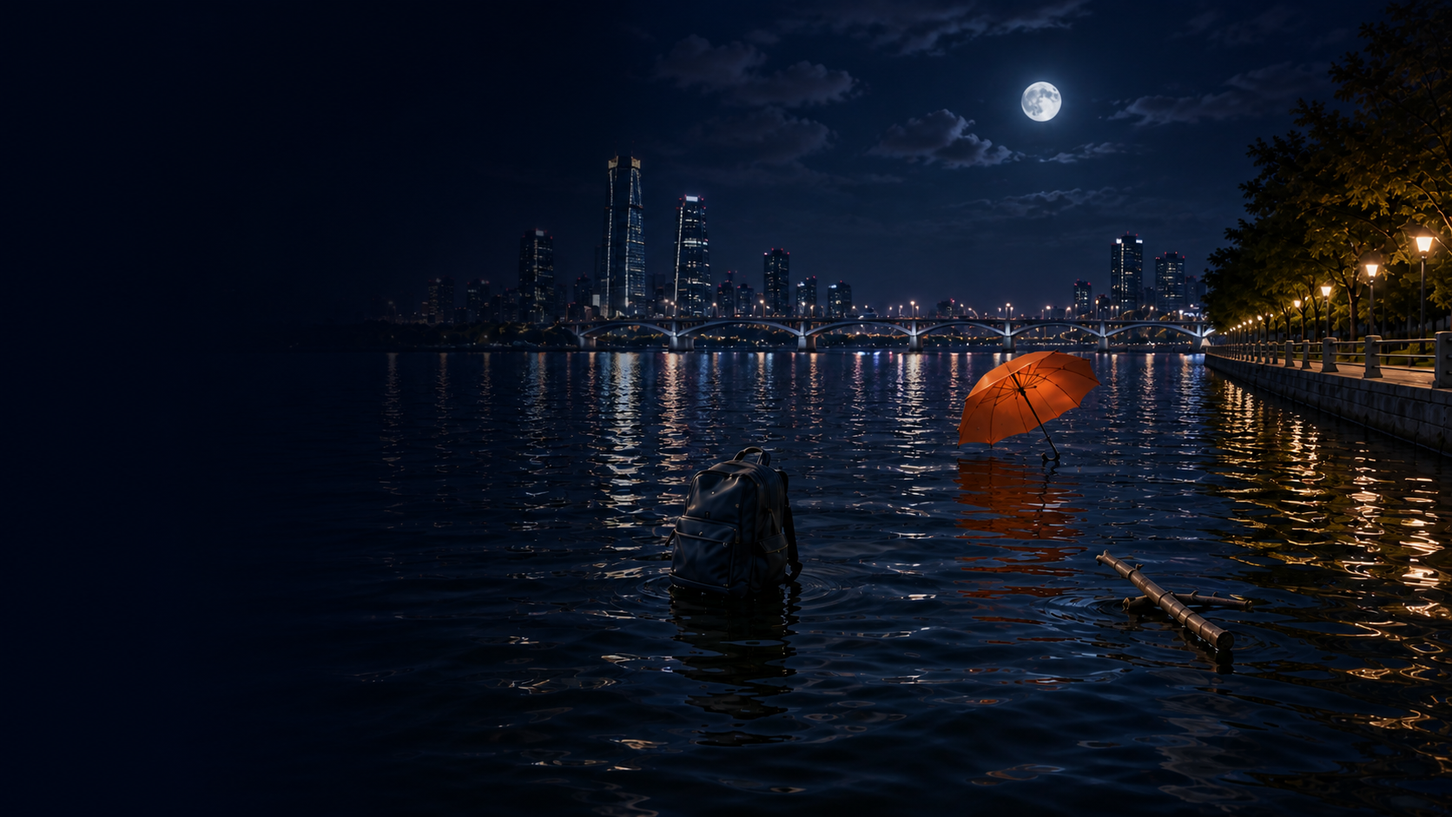
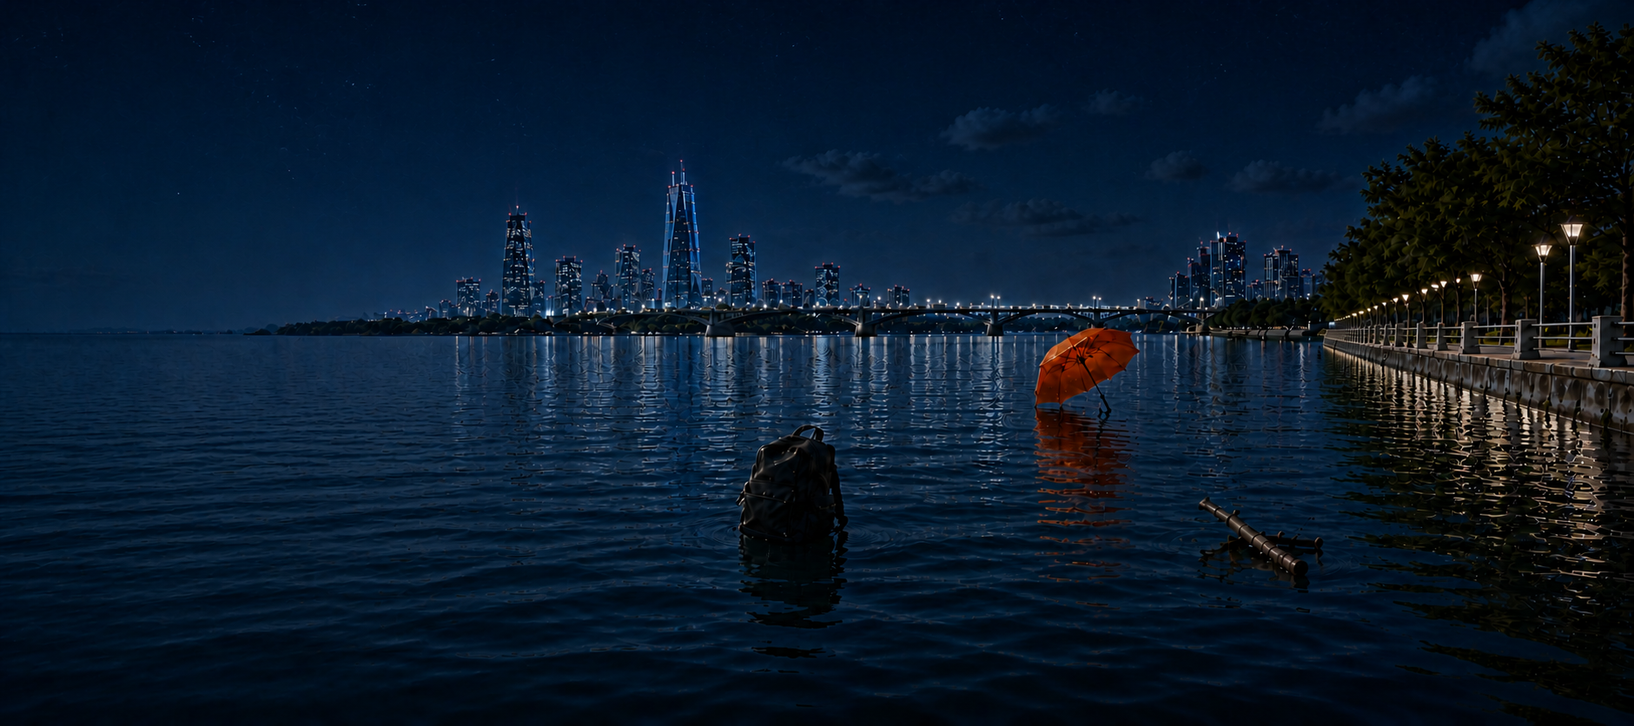
fix(frontend): 테마별 히어로 비주얼과 인증 UX 정리

diff --git a/frontend/src/app/globals.css b/frontend/src/app/globals.css
@@ -165,13 +165,13 @@ html[data-theme="dawn"] .button-secondary:hover { border-color: rgba(232, 111, 8
 .hero-copy::before { content: ""; position: absolute; z-index: -2; left: -12px; bottom: 14px; width: 103%; height: 132px; background: radial-gradient(ellipse at 42% 62%, rgba(105, 184, 255, .22) 0 18%, rgba(148, 209, 255, .14) 32%, transparent 70%), linear-gradient(180deg, transparent 0 36%, rgba(190, 226, 255, .15) 47%, rgba(122, 194, 255, .20) 74%, transparent 100%); -webkit-mask-image: linear-gradient(180deg, transparent 0, #000 26%, #000 78%, transparent 100%); mask-image: linear-gradient(180deg, transparent 0, #000 26%, #000 78%, transparent 100%); pointer-events: none; }
 .hero-copy::after { content: ""; position: absolute; z-index: -1; left: -8px; bottom: 28px; width: 98%; aspect-ratio: 2.86 / 1; background-image: url("/riverside-line-art-transparent.png"), url("/riverside-line-art-transparent.png"), url("/riverside-line-art-transparent.png"), url("/riverside-line-art-transparent.png"); background-position: center, center, center, center; background-size: contain, contain, contain, contain; background-repeat: no-repeat, no-repeat, no-repeat, no-repeat; opacity: 1; filter: contrast(1.95) saturate(1.3) brightness(.9) drop-shadow(0 0 0 rgba(78, 128, 210, .42)); pointer-events: none; }
 html[data-theme="day"] .hero-copy::before { bottom: -24px; }
-html[data-theme="day"] .hero-copy::after { bottom: -28px; }
+html[data-theme="day"] .hero-copy::after { bottom: -52px; }
 html[data-theme="night"] .hero-copy::before { opacity: .18; background: radial-gradient(ellipse at 42% 62%, rgba(139, 124, 255, .32) 0 20%, rgba(95, 141, 255, .13) 34%, transparent 72%); }
 html[data-theme="night"] .hero-copy { width: 31%; min-width: 390px; padding-top: 76px; padding-left: 28px; }
-html[data-theme="night"] .hero-copy::before { bottom: -8px; opacity: 0; }
-html[data-theme="night"] .hero-copy::after { bottom: 0; mix-blend-mode: screen; opacity: 0; filter: hue-rotate(32deg) saturate(.7); }
-html[data-theme="dawn"] .hero-copy::before { background: radial-gradient(ellipse at 42% 62%, rgba(255, 159, 118, .24) 0 18%, rgba(155, 151, 213, .14) 34%, transparent 72%); }
-html[data-theme="dawn"] .hero-copy::after { filter: hue-rotate(298deg) saturate(.72) brightness(1.06); opacity: .38; }
+html[data-theme="night"] .hero-copy::before { bottom: -72px; height: 150px; opacity: .56; background: radial-gradient(ellipse at 46% 72%, rgba(139,124,255,.22) 0 24%, rgba(95,141,255,.13) 38%, transparent 74%); }
+html[data-theme="night"] .hero-copy::after { bottom: -76px; mix-blend-mode: screen; opacity: .62; filter: invert(1) hue-rotate(190deg) saturate(1.45) brightness(1.22) drop-shadow(0 0 7px rgba(185,204,255,.34)) drop-shadow(0 0 16px rgba(139,124,255,.28)); }
+html[data-theme="dawn"] .hero-copy::before { bottom: -50px; height: 150px; opacity: .72; background: radial-gradient(ellipse at 34% 30%, rgba(255, 132, 92, .07) 0 20%, rgba(255, 188, 159, .04) 36%, transparent 68%), linear-gradient(180deg, transparent 0 16%, rgba(255, 232, 218, .08) 30%, rgba(168, 226, 226, .24) 58%, rgba(117, 205, 219, .18) 78%, transparent 100%); }
+html[data-theme="dawn"] .hero-copy::after { bottom: -50px; filter: sepia(.62) hue-rotate(323deg) saturate(2.3) contrast(1.42) brightness(.95) drop-shadow(0 0 3px rgba(232,111,81,.28)); opacity: .94; }
 .eyebrow { margin: 0 0 24px; display: flex; align-items: center; gap: 8px; color: var(--color-primary); font-size: 13px; font-weight: 700; }
 .hero h1 { min-height: 130px; margin: 0; max-width: 440px; font-family: var(--font-editorial), "Noto Serif", Batang, serif; font-size: clamp(40px, 3.25vw, 48px); line-height: 1.34; letter-spacing: -.035em; font-weight: 500; }
 html[data-theme="night"] .hero h1 { max-width: 390px; font-size: clamp(35px, 2.75vw, 42px); line-height: 1.34; }
@@ -199,7 +199,7 @@ html[data-theme="night"] .hero-actions .button-secondary { min-width: 150px; bor
 .riverside-line-art .line-bridge { stroke-width: 1.4; opacity: .96; }.riverside-line-art .line-city { opacity: .9; }.riverside-line-art .line-currents { opacity: .66; }.riverside-line-art .line-banks, .riverside-line-art .line-ripples { opacity: .72; }
 
 .detection-scene { position: absolute; inset: 0; min-width: 0; height: 680px; overflow: hidden; border-radius: 0 0 30px 30px; background-color: var(--scene-water); background-image: url("/flowlink-river-day.png"); background-position: center; background-repeat: no-repeat; background-size: 100% 100%; isolation: isolate; }
-html[data-theme="night"] .detection-scene { background-image: url("/flowlink-river-night.png"); }
+html[data-theme="night"] .detection-scene { background-image: url("/flowlink-river-night.png"); background-position: center; background-size: 100% 100%; }
 html[data-theme="dawn"] .detection-scene { background-image: url("/flowlink-river-dawn.png"); }
 .detection-scene::before { content: ""; position: absolute; z-index: 6; inset: 0 auto 0 0; width: 37%; background: linear-gradient(90deg, var(--color-background) 0 55%, color-mix(in srgb, var(--color-background) 88%, transparent) 72%, color-mix(in srgb, var(--color-background) 34%, transparent) 90%, transparent 100%); pointer-events: none; }
 html[data-theme="night"] .detection-scene::before { width: 42%; background: linear-gradient(90deg, #090d1a 0 54%, rgba(9,13,26,.88) 68%, rgba(9,13,26,.24) 91%, transparent); }
@@ -213,7 +213,11 @@ html[data-theme="night"] .scene-sky { background: radial-gradient(circle at 73% 
 .cloud-one { top: 58px; left: 14%; }.cloud-two { top: 105px; right: 12%; transform: scale(.72); }
 html[data-theme="night"] .cloud { opacity: .05; }
 .moon { display: none; position: absolute; z-index: 2; top: 38px; right: 19%; width: 54px; height: 54px; border-radius: 50%; background: #dbe5ff; box-shadow: 0 0 28px rgba(185,204,255,.22); }
-html[data-theme="night"] .moon { display: block; }
+html[data-theme="night"] .scene-sky { display: block; z-index: 7; overflow: visible; background: transparent; pointer-events: none; }
+html[data-theme="night"] .scene-sky .cloud { display: none; }
+html[data-theme="night"] .moon { display: block; top: 66px; right: 28%; width: 56px; height: 56px; overflow: visible; border: 0; background: url("/flowlink-moon-realistic.png") center / contain no-repeat; box-shadow: none; filter: drop-shadow(0 0 10px rgba(231,244,255,.32)) drop-shadow(0 0 32px rgba(117,169,255,.2)); opacity: .9; }
+html[data-theme="night"] .moon::before { display: none; }
+html[data-theme="night"] .moon::after { content: ""; position: absolute; z-index: -1; inset: -18px; border-radius: 50%; background: radial-gradient(circle, rgba(216,235,255,.18) 0 22%, rgba(104,162,255,.09) 42%, transparent 72%); filter: blur(2px); pointer-events: none; }
 .scene-city { position: absolute; z-index: 2; top: 126px; left: 0; width: 100%; height: 190px; }
 .city-back { fill: #b7d4e4; opacity: .56; }
 .city-shape { fill: #81aeca; opacity: .62; }
@@ -246,8 +250,8 @@ html[data-theme="night"] .promenade i { background: #142516; }
 .detection-path { position: absolute; z-index: 5; inset: 0; width: 100%; height: 100%; overflow: visible; }
 html[data-theme="night"] .detection-path { mix-blend-mode: screen; opacity: .97; filter: saturate(1.08); }
 .flow-lines-night { display: none; }
-html[data-theme="night"] .flow-lines-day { display: none; }
-html[data-theme="night"] .flow-lines-night { display: block; }
+html[data-theme="night"] .flow-lines-day { display: block; }
+html[data-theme="night"] .flow-lines-night { display: none; }
 .detection-path path { fill: none; stroke: var(--color-detection-line); stroke-width: 1.8; stroke-linecap: round; stroke-linejoin: round; stroke-dasharray: 3 9; filter: drop-shadow(0 0 4px var(--color-detection-glow)); animation: path-flow 18s linear infinite; }
 .detection-path circle { fill: var(--color-primary); filter: drop-shadow(0 0 9px var(--color-primary)); }
 .detection-path .flow-halo { stroke: #9fe4ff; stroke-width: 10; stroke-dasharray: none; opacity: .22; filter: blur(7px); animation: none; }
@@ -277,9 +281,8 @@ html[data-theme="night"] .detection-path .flow-arrow-head { fill: #e8e1ff; strok
 html[data-theme="night"] .detection-path .flow-arrows path { stroke: #efeaff; stroke-width: 1.75; opacity: .76; filter: drop-shadow(0 0 5px rgba(255,255,255,.56)) drop-shadow(0 0 9px rgba(139,124,255,.72)); }
 html[data-theme="night"] .detection-path .flow-particles circle { fill: #fff; stroke: #a494ff; opacity: .92; filter: drop-shadow(0 0 5px rgba(255,255,255,.84)) drop-shadow(0 0 12px rgba(139,124,255,.8)); }
 html[data-theme="night"] .detection-path .scan-rings ellipse { stroke: #baaeff; stroke-width: 1.18; opacity: .84; filter: drop-shadow(0 0 5px rgba(255,255,255,.46)) drop-shadow(0 0 11px rgba(139,124,255,.72)) drop-shadow(0 0 18px rgba(95,141,255,.24)); }
-html[data-theme="night"] .detection-path .umbrella-scan,
-html[data-theme="night"] .detection-path .umbrella-node { transform: translate(70px, 12px); transform-box: view-box; transform-origin: 0 0; }
-html[data-theme="night"] .detection-path .umbrella-scan { transform: translate(70px, 28px); }
+html[data-theme="night"] .detection-path .umbrella-scan { transform: translateY(16px); }
+html[data-theme="night"] .detection-path .umbrella-node { transform: none; }
 .detection-card { position: absolute; z-index: 8; width: 168px; height: 214px; padding: 15px; border: 1px solid color-mix(in srgb, var(--color-detection-line) 58%, rgba(255,255,255,.72)); border-radius: 18px; background: transparent; box-shadow: 0 0 0 1px color-mix(in srgb, var(--color-detection-line) 8%, transparent), 0 10px 24px rgba(18,42,78,.08); transform-origin: center bottom; transition: transform .25s ease, border-color 350ms ease, box-shadow 350ms ease; }
 html[data-theme="dawn"] .detection-card { border-color: rgba(232,111,81,.58); box-shadow: 0 0 0 1px rgba(232,111,81,.07), 0 10px 24px rgba(90,55,70,.08); }
 html[data-theme="day"] .detection-card { border-color: rgba(37,99,235,.56); box-shadow: 0 0 0 1px rgba(96,165,250,.08), 0 10px 24px rgba(18,42,78,.08); }
@@ -298,16 +301,11 @@ html[data-theme="night"] .detection-copy { background: rgba(9,14,28,.68); }
 .detection-copy span { font-weight: 800; }.detection-copy strong { grid-row: 2; font-size: 10px; color: var(--color-primary); }.detection-copy i { grid-row: 1 / span 2; grid-column: 2; align-self: center; width: 7px; height: 7px; border-radius: 50%; background: var(--color-primary); box-shadow: 0 0 0 3px color-mix(in srgb, var(--color-primary) 14%, transparent); }
 .detection-card .object-illustration { display: none; }
 .detection-backpack { left: 43.8%; top: 45.5%; width: 160px; height: 195px; }.detection-umbrella { left: 61.5%; top: 29%; width: 170px; height: 190px; }.detection-branch { left: 72.8%; top: 54.5%; width: 180px; height: 165px; }
-html[data-theme="night"] .detection-backpack { z-index: 10; left: 43.9%; top: 42%; width: 160px; height: 195px; -webkit-backdrop-filter: brightness(1.34) contrast(1.12); backdrop-filter: brightness(1.34) contrast(1.12); }
-html[data-theme="night"] .detection-umbrella { left: 64.7%; top: 24.8%; width: 170px; height: 190px; }
-html[data-theme="night"] .detection-branch { left: 74%; top: 53.5%; width: 180px; height: 165px; }
+html[data-theme="night"] .detection-backpack { z-index: 10; -webkit-backdrop-filter: brightness(1.34) contrast(1.12); backdrop-filter: brightness(1.34) contrast(1.12); }
 .ripple { position: absolute; z-index: -1; left: 50%; bottom: -18px; transform: translateX(-50%); width: 230px; height: 64px; opacity: .58; }
 .ripple i { position: absolute; inset: 50% auto auto 50%; transform: translate(-50%,-50%); border: 1px solid var(--color-detection-line); border-radius: 50%; animation: ripple 5s ease-out infinite; }
 .ripple i:nth-child(1) { width: 76px; height: 18px; }.ripple i:nth-child(2) { width: 142px; height: 36px; animation-delay: .7s; }.ripple i:nth-child(3) { width: 220px; height: 58px; animation-delay: 1.4s; }
 .detection-umbrella .ripple { bottom: -32px; }
-html[data-theme="night"] .detection-umbrella .ripple { left: 50%; bottom: -11px; }
-html[data-theme="night"] .detection-backpack .ripple { left: calc(50% - 22px); bottom: -5px; }
-html[data-theme="night"] .detection-branch .ripple { left: calc(50% + 22px); bottom: -6px; }
 .live-card { position: absolute; z-index: 30; right: 38px; bottom: 82px; width: 300px; min-height: 64px; padding: 11px 14px; border: 1px solid color-mix(in srgb, var(--color-border) 82%, transparent); border-radius: 15px; background: rgba(255,255,255,.82); box-shadow: 0 12px 30px rgba(18,42,78,.14); backdrop-filter: blur(8px); display: flex; align-items: center; gap: 11px; }
 html[data-theme="night"] .live-card { background: rgba(10,16,31,.84); border-color: #25314a; box-shadow: 0 14px 34px rgba(0,0,0,.32); }
 .live-icon { position: relative; width: 38px; height: 38px; border: 1px solid color-mix(in srgb, var(--color-primary) 24%, transparent); border-radius: 50%; color: var(--color-primary); background: var(--color-primary-soft); display: grid; place-items: center; }
@@ -486,22 +484,23 @@ html[data-theme="night"] .auth-register-visual { background-image: url("/flowlin
 .auth-login-visual .auth-visual-content { bottom: clamp(46px, 7vh, 72px); }
 .auth-login-visual .auth-visual-content h2 { font-size: clamp(28px, 2vw, 35px); }
 .auth-login-detection { --detect-x: 68%; --detect-y: 61%; --card-x: -73px; --card-y: -138px; --leader-length: 82px; --leader-angle: -90deg; position: absolute; z-index: 4; left: var(--detect-x); top: var(--detect-y); width: 0; height: 0; color: #fff; pointer-events: none; }
-.auth-theme-dawn .auth-login-detection-umbrella { --detect-x: 69%; --detect-y: 60%; --card-x: 24px; --card-y: -142px; --leader-length: 103px; --leader-angle: -57deg; }.auth-theme-dawn .auth-login-detection-bag { --detect-x: 50%; --detect-y: 76%; --card-x: -145px; --card-y: -150px; --leader-length: 108px; --leader-angle: -126deg; }
-.auth-theme-day .auth-login-detection-bag { --detect-x: 51%; --detect-y: 75%; --card-x: -70px; --card-y: -178px; --leader-length: 117px; --leader-angle: -90deg; }.auth-theme-day .auth-login-detection-footwear { --detect-x: 79%; --detect-y: 78%; --card-x: -154px; --card-y: -112px; --leader-length: 94px; --leader-angle: -137deg; }
-.auth-theme-night .auth-login-detection-footwear { --detect-x: 78%; --detect-y: 80%; --card-x: -160px; --card-y: -120px; --leader-length: 101px; --leader-angle: -139deg; }.auth-theme-night .auth-login-detection-umbrella { --detect-x: 67%; --detect-y: 60%; --card-x: 24px; --card-y: -140px; --leader-length: 102px; --leader-angle: -57deg; }
-.auth-detection-anchor { position: absolute; z-index: 3; left: -4px; top: -4px; width: 8px; height: 8px; border: 1px solid rgba(255,255,255,.88); border-radius: 50%; background: var(--color-primary); box-shadow: 0 0 0 3px color-mix(in srgb, var(--color-primary) 14%, transparent); animation: auth-anchor-in .18s .08s ease-out both; }
+.auth-theme-dawn .auth-login-detection-umbrella { --detect-x: 68.5%; --detect-y: 57.5%; --card-x: 42px; --card-y: -138px; --leader-length: 92px; --leader-angle: -58deg; }.auth-theme-dawn .auth-login-detection-bag { --detect-x: 39.5%; --detect-y: 63.5%; --card-x: -18px; --card-y: -126px; --leader-length: 70px; --leader-angle: -90deg; }
+.auth-theme-day .auth-login-detection-bag { --detect-x: 45%; --detect-y: 66%; --card-x: -34px; --card-y: -136px; --leader-length: 112px; --leader-angle: -105deg; }.auth-theme-day .auth-login-detection-footwear { --detect-x: 80%; --detect-y: 72%; --card-x: -146px; --card-y: -108px; --leader-length: 76px; --leader-angle: -136deg; }
+.auth-theme-night .auth-login-detection-bag { --detect-x: 47.5%; --detect-y: 66.5%; --card-x: -50px; --card-y: -132px; --leader-length: 79px; --leader-angle: -75deg; }.auth-theme-night .auth-login-detection-footwear { --detect-x: 77%; --detect-y: 74%; --card-x: -150px; --card-y: -100px; --leader-length: 78px; --leader-angle: -136deg; }.auth-theme-night .auth-login-detection-umbrella { --detect-x: 64%; --detect-y: 50.5%; --card-x: -66px; --card-y: -128px; --leader-length: 75px; --leader-angle: -105deg; }
+.auth-detection-anchor { position: absolute; z-index: 3; left: -5px; top: -5px; width: 10px; height: 10px; border: 1px solid rgba(255,255,255,.9); border-radius: 50%; background: var(--color-primary); box-shadow: 0 0 0 4px color-mix(in srgb, var(--color-primary) 16%, transparent), 0 0 16px color-mix(in srgb, var(--color-primary) 42%, transparent); animation: auth-anchor-in .18s .08s ease-out both; }
 .auth-detection-anchor::after { content: ""; position: absolute; inset: -7px; border: 1px solid color-mix(in srgb, var(--color-primary) 52%, #fff); border-radius: 50%; animation: auth-anchor-ring .3s .1s ease-out both; }
-.auth-detection-leader { position: absolute; z-index: 1; left: 0; top: 0; width: var(--leader-length); height: 1px; background: linear-gradient(90deg, var(--color-primary), rgba(255,255,255,.5)); transform: rotate(var(--leader-angle)) scaleX(0); transform-origin: left center; animation: auth-leader-in .21s .22s ease-out both; }
-.auth-detection-card { position: absolute; z-index: 2; left: var(--card-x); top: var(--card-y); width: 146px; min-height: 62px; padding: 11px 13px; border: .75px solid color-mix(in srgb, var(--color-primary) 52%, rgba(255,255,255,.48)); border-radius: 11px; background: rgba(16,24,39,.48); box-shadow: 0 8px 20px rgba(5,12,27,.11); display: grid; gap: 3px; animation: auth-card-in .26s .4s ease-out both; }
-.auth-theme-dawn .auth-detection-card { color: #302c46; background: rgba(255,250,247,.84); }
-.auth-theme-day .auth-detection-card { color: #1e2a44; background: rgba(248,252,255,.86); }
-.auth-theme-night .auth-detection-card { background: rgba(9,14,28,.78); }
-.auth-detection-card .auth-detection-name { font-size: 13px; font-weight: 800; letter-spacing: -.01em; }.auth-detection-card strong { color: color-mix(in srgb, currentColor 72%, transparent); font-size: 9px; font-weight: 600; }.auth-detection-card strong em { margin-left: 2px; color: var(--color-primary); font-size: 11px; font-style: normal; font-weight: 800; font-variant-numeric: tabular-nums; }.auth-detection-card > i { position: absolute; top: 13px; right: 12px; width: 6px; height: 6px; border-radius: 50%; background: var(--color-primary); box-shadow: 0 0 0 2px color-mix(in srgb, var(--color-primary) 12%, transparent); animation: auth-status-in .18s .63s ease-out both; }
+.auth-detection-leader { position: absolute; z-index: 1; left: 0; top: 0; width: var(--leader-length); height: 1.2px; background: linear-gradient(90deg, var(--color-primary), rgba(255,255,255,.72)); box-shadow: 0 0 10px color-mix(in srgb, var(--color-primary) 32%, transparent); transform: rotate(var(--leader-angle)) scaleX(0); transform-origin: left center; animation: auth-leader-in .21s .22s ease-out both; }
+.auth-detection-card { position: absolute; z-index: 2; left: var(--card-x); top: var(--card-y); width: 154px; min-height: 66px; padding: 12px 14px; border: 1px solid color-mix(in srgb, var(--color-primary) 48%, rgba(255,255,255,.58)); border-radius: 14px; background: linear-gradient(145deg, rgba(255,255,255,.82), rgba(255,255,255,.62)); box-shadow: 0 16px 34px rgba(5,12,27,.16), inset 0 1px 0 rgba(255,255,255,.55); -webkit-backdrop-filter: blur(12px) saturate(1.15); backdrop-filter: blur(12px) saturate(1.15); display: grid; gap: 4px; overflow: hidden; animation: auth-card-in .26s .4s ease-out both; }
+.auth-detection-card::before { content: ""; position: absolute; inset: 1px 8px auto; height: 44%; border-radius: inherit; background: linear-gradient(180deg, rgba(255,255,255,.34), transparent); pointer-events: none; }
+.auth-theme-dawn .auth-detection-card { color: #302c46; background: linear-gradient(145deg, rgba(255,251,248,.9), rgba(255,245,239,.72)); }
+.auth-theme-day .auth-detection-card { color: #1e2a44; background: linear-gradient(145deg, rgba(248,252,255,.92), rgba(234,244,255,.74)); }
+.auth-theme-night .auth-detection-card { background: linear-gradient(145deg, rgba(13,20,38,.86), rgba(8,13,27,.68)); box-shadow: 0 18px 38px rgba(0,0,0,.28), 0 0 0 1px rgba(139,124,255,.05), inset 0 1px 0 rgba(255,255,255,.08); }
+.auth-detection-card .auth-detection-name, .auth-detection-card strong { position: relative; z-index: 1; }.auth-detection-card .auth-detection-name { font-size: 13px; font-weight: 800; letter-spacing: -.01em; }.auth-detection-card strong { color: color-mix(in srgb, currentColor 72%, transparent); font-size: 9px; font-weight: 600; }.auth-detection-card strong em { margin-left: 2px; color: var(--color-primary); font-size: 11px; font-style: normal; font-weight: 800; font-variant-numeric: tabular-nums; }.auth-detection-card > i { position: absolute; z-index: 1; top: 13px; right: 12px; width: 6px; height: 6px; border-radius: 50%; background: var(--color-primary); box-shadow: 0 0 0 2px color-mix(in srgb, var(--color-primary) 12%, transparent), 0 0 10px color-mix(in srgb, var(--color-primary) 45%, transparent); animation: auth-status-in .18s .63s ease-out both; }
 .auth-login-detection.is-secondary { z-index: 3; }
 .auth-login-detection.is-secondary .auth-detection-anchor { left: -3px; top: -3px; width: 7px; height: 7px; box-shadow: 0 0 0 2px color-mix(in srgb, var(--color-primary) 10%, transparent); }
 .auth-login-detection.is-secondary .auth-detection-anchor::after { display: none; }
 .auth-login-detection.is-secondary .auth-detection-leader { height: .75px; }
-.auth-login-detection.is-secondary .auth-detection-card { width: 124px; min-height: 54px; padding: 9px 11px; border-radius: 10px; background-color: color-mix(in srgb, rgba(16,24,39,.48) 84%, transparent); }
+.auth-login-detection.is-secondary .auth-detection-card { width: 132px; min-height: 56px; padding: 10px 12px; border-radius: 12px; background-color: color-mix(in srgb, rgba(16,24,39,.48) 84%, transparent); }
 .auth-login-detection.is-secondary .auth-detection-name { font-size: 12px; }.auth-login-detection.is-secondary .auth-detection-card strong { font-size: 8px; }.auth-login-detection.is-secondary .auth-detection-card strong em { font-size: 10px; }.auth-login-detection.is-secondary .auth-detection-card > i { top: 11px; right: 10px; width: 5px; height: 5px; }
 .auth-theme-dawn .auth-login-detection.is-secondary .auth-detection-card { background: rgba(255,250,247,.76); }.auth-theme-day .auth-login-detection.is-secondary .auth-detection-card { background: rgba(248,252,255,.78); }.auth-theme-night .auth-login-detection.is-secondary .auth-detection-card { background: rgba(9,14,28,.68); }
 .auth-login-detection.sequence-2 .auth-detection-anchor { animation-delay: .22s; }
@@ -532,7 +531,8 @@ html[data-theme="night"] .auth-register-visual { background-image: url("/flowlin
   .auth-page-login .auth-form-panel { padding-inline: 42px; }
   .auth-login-visual .auth-visual-content { left: 34px; width: min(330px, calc(100% - 54px)); }
   .auth-login-detection { transform: scale(.9); transform-origin: 0 0; }
-  .auth-theme-dawn .auth-login-detection-umbrella, .auth-theme-night .auth-login-detection-umbrella { --card-x: -150px; --card-y: -138px; --leader-length: 100px; --leader-angle: -132deg; }
+  .auth-theme-dawn .auth-login-detection-umbrella { --card-x: 36px; --card-y: -130px; --leader-length: 84px; --leader-angle: -58deg; }
+  .auth-theme-night .auth-login-detection-umbrella { --card-x: -66px; --card-y: -120px; --leader-length: 67px; --leader-angle: -105deg; }
 }
 
 @media (max-width: 768px) {
@@ -564,9 +564,9 @@ html[data-theme="night"] .auth-register-visual { background-image: url("/flowlin
   .auth-login-visual .auth-micro-flow { display: none; }
   .auth-login-detection { transform: scale(.78); transform-origin: 0 0; }
   .auth-login-detection.is-secondary { display: none; }
-  .auth-theme-dawn .auth-login-detection-umbrella { --detect-x: 72%; --detect-y: 78%; --card-x: -145px; --card-y: -116px; --leader-length: 86px; --leader-angle: -137deg; }
-  .auth-theme-day .auth-login-detection-bag { --detect-x: 61%; --detect-y: 84%; --card-x: -73px; --card-y: -132px; --leader-length: 82px; --leader-angle: -90deg; }
-  .auth-theme-night .auth-login-detection-footwear { --detect-x: 78%; --detect-y: 88%; --card-x: -154px; --card-y: -116px; --leader-length: 91px; --leader-angle: -139deg; }
+  .auth-theme-dawn .auth-login-detection-umbrella { --detect-x: 70%; --detect-y: 72%; --card-x: -136px; --card-y: -104px; --leader-length: 76px; --leader-angle: -134deg; }
+  .auth-theme-day .auth-login-detection-bag { --detect-x: 59%; --detect-y: 78%; --card-x: -70px; --card-y: -118px; --leader-length: 70px; --leader-angle: -90deg; }
+  .auth-theme-night .auth-login-detection-footwear { --detect-x: 77%; --detect-y: 80%; --card-x: -146px; --card-y: -102px; --leader-length: 78px; --leader-angle: -137deg; }
   .auth-page-login .auth-form-panel { padding: 38px 20px 60px; }
 }
 
@@ -690,9 +690,7 @@ html[data-theme="night"] .auth-register-visual { background-image: url("/flowlin
   .site-header { height: 70px; }.header-inner { width: calc(100% - 36px); }.brand { font-size: 20px; }.brand-mark { width: 32px; }.login-link { display: none; }.theme-option { min-width: 42px; height: 34px; }.theme-option span { display: none; }.mobile-menu { top: 70px; height: calc(100dvh - 70px); }.menu-backdrop { inset-block-start: 70px; }
   .hero-inner { width: 100%; min-height: 0; display: flex; flex-direction: column; overflow: visible; }.hero-copy { width: calc(100% - 40px); min-width: 0; min-height: 500px; margin: auto; padding: 62px 0 80px; }.hero h1 { max-width: 520px; font-size: 34px; }.hero h1 .theme-copy { white-space: normal; }.hero-description { max-width: 390px; }.hero-actions { flex-direction: row; max-width: 100%; }.riverside-line-art { bottom: 0; width: min(420px, 100%); }
   .detection-scene { position: relative; inset: auto; width: calc(100% - 24px); height: 440px; margin: 0 auto; border-radius: 24px; }.detection-scene::before { display: none; }.scene-city { top: 75px; }.detection-backpack { left: 27%; top: 32%; }.detection-umbrella { left: 48%; top: 18%; }.detection-branch { left: 64%; right: auto; top: 38%; }.live-card { right: 12px; bottom: 12px; width: 220px; transform: scale(.88); transform-origin: right bottom; }
-  html[data-theme="night"] .detection-backpack { left: 26.5%; top: 29.5%; width: 160px; height: 195px; }
-  html[data-theme="night"] .detection-umbrella { left: 46.5%; top: 14.5%; width: 170px; height: 190px; }
-  html[data-theme="night"] .detection-branch { left: 60.5%; top: 36.5%; width: 180px; height: 165px; }
+  html[data-theme="night"] .moon { top: 42px; right: auto; left: 27%; width: 36px; height: 36px; }
   .stats-wrap { width: calc(100% - 40px); margin-top: 22px; }.stats-strip { grid-template-columns: repeat(2, 1fr); padding: 8px 12px; }.stat { min-height: 84px; border-right: 0; border-bottom: 1px solid var(--color-border); }.stat:nth-child(odd) { border-right: 1px solid var(--color-border); }.stat:nth-child(n+3) { border-bottom: 0; }
   .section { width: calc(100% - 40px); }.process-section { padding-block: 68px 60px; }.process-list { grid-template-columns: 1fr; gap: 15px; }.process-card { height: auto; min-height: 136px; padding: 23px; }
   .recent-section { padding-bottom: 70px; }.recent-grid { display: flex; width: calc(100vw - 20px); margin-right: -20px; padding: 2px 20px 18px 0; gap: 14px; overflow-x: auto; scroll-snap-type: x mandatory; }.recent-grid > div { flex: 0 0 min(76vw, 330px); scroll-snap-align: start; }.found-card { height: 100%; grid-template-columns: 1fr; }.found-visual { min-height: 160px; }
@@ -701,7 +699,7 @@ html[data-theme="night"] .auth-register-visual { background-image: url("/flowlin
   .found-items-page { width: calc(100% - 40px); padding: 64px 0 76px; }.found-items-hero { grid-template-columns: 1fr; }.found-hero-notes { grid-template-columns: repeat(3, 1fr); }.found-hero-notes span { min-width: 0; }.found-filter-heading { align-items: start; flex-direction: column; gap: 8px; }.found-filter-form { grid-template-columns: repeat(2, minmax(0, 1fr)); }.found-filter-actions { grid-column: 1 / -1; }.found-search-grid { grid-template-columns: 1fr; }.found-detail-list { grid-template-columns: 1fr; }.found-detail-title-row { flex-direction: column; }
 
   .info-page { width: calc(100% - 40px); padding-block: 64px; }.info-hero { margin-bottom: 48px; }.info-feature-grid { grid-template-columns: 1fr; margin-bottom: 56px; }.info-section { margin-top: 56px; }.info-steps, .info-steps-flow { grid-template-columns: repeat(2, 1fr); }.document-card section + section { margin-top: 36px; padding-top: 36px; }
-  .about-hero { min-height: 680px; margin-inline: -20px; border-radius: 0 0 28px 28px; }.about-hero > img { object-position: 63% center; }.about-hero-overlay { background: linear-gradient(180deg, rgba(6,15,32,.78) 0%, rgba(6,15,32,.38) 54%, rgba(4,12,28,.88) 100%); }.about-hero-copy { width: 100%; padding: 50px 38px; }.about-hero-copy > p:not(.info-eyebrow) { max-width: 430px; }.about-hero-status { right: 18px; bottom: 18px; left: 18px; justify-content: space-around; }.about-hero-status span { padding-inline: 7px; }.about-intro { margin-bottom: 64px; }.about-page .info-steps-flow { grid-template-columns: repeat(2, 1fr); gap: 14px; }.about-page .info-steps-flow li { min-height: 140px; opacity: .72; }.flow-connector { display: none; }.document-hero { min-height: 250px; }
+  .about-hero { min-height: 640px; margin-inline: -20px; border-radius: 0 0 28px 28px; }.about-hero > img { object-position: 70% center; }.about-hero-overlay { background: linear-gradient(180deg, rgba(6,15,32,.78) 0%, rgba(6,15,32,.38) 54%, rgba(4,12,28,.88) 100%); }.about-hero-copy { width: 100%; padding: 50px 38px; }.about-hero-copy > p:not(.info-eyebrow) { max-width: 430px; }.about-hero-status { right: 18px; bottom: 18px; left: 18px; justify-content: space-around; }.about-hero-status span { padding-inline: 7px; }.about-intro { margin-bottom: 64px; }.about-page .info-steps-flow { grid-template-columns: repeat(2, 1fr); gap: 14px; }.about-page .info-steps-flow li { min-height: 140px; opacity: .72; }.flow-connector { display: none; }.document-hero { min-height: 250px; }
   .guide-hero { min-height: 270px; padding: 42px; }.guide-hero-visual { min-height: 220px; }.guide-flow-list { grid-template-columns: repeat(2, 1fr); }.guide-flow-list li { min-height: 140px; }.guide-flow + .guide-flow { margin-top: 70px; }.guide-flow-detail { align-items: start; }
 }
 
@@ -710,17 +708,16 @@ html[data-theme="night"] .auth-register-visual { background-image: url("/flowlin
 @media (max-width: 430px) {
   .header-inner { width: calc(100% - 36px); gap: 8px; }.brand { gap: 6px; font-size: 19px; }.brand-mark { width: 29px; }.header-actions { gap: 7px; }.theme-toggle { padding: 2px; }.theme-option { min-width: 39px; }.menu-button { width: 42px; }
   .hero-copy { width: calc(100% - 38px); min-height: 490px; padding-top: 52px; }.eyebrow { font-size: 12px; }.hero h1 { font-size: 31px; line-height: 1.36; }.hero-description { min-height: 105px; font-size: 14px; }.hero-actions { display: grid; grid-template-columns: 1fr 1fr; gap: 9px; }.hero-actions .button { padding-inline: 10px; font-size: 13px; }
-  .detection-scene { width: calc(100% - 20px); height: 410px; }.detection-card { transform: scale(.66); }.detection-card:hover { transform: scale(.66); }.detection-backpack { left: 30%; top: 32%; }.detection-umbrella { left: 47%; top: 18%; }.detection-branch { left: 62%; right: auto; top: 38%; }.live-card { transform: scale(.72); right: 8px; bottom: 6px; }.promenade { width: 42%; }
-  html[data-theme="night"] .detection-backpack { left: 29%; top: 29.5%; width: 160px; height: 195px; }
-  html[data-theme="night"] .detection-umbrella { left: 46.5%; top: 14.5%; width: 170px; height: 190px; }
-  html[data-theme="night"] .detection-branch { left: 59.5%; top: 35.5%; width: 180px; height: 165px; }
+  .detection-scene { width: 100%; height: 468px; background-position: 95% center; background-size: 148% 100%; }.detection-path { transform: translateX(-45.6%) scaleX(1.48); transform-origin: left center; }.detection-card { transform: scale(.76); }.detection-card:hover { transform: scale(.76); }.detection-backpack { left: 12%; top: 36%; }.detection-umbrella { left: 34%; top: 20%; }.detection-branch { left: 44%; right: auto; top: 46%; }.live-card { right: 50%; bottom: 9px; transform: translateX(50%) scale(.8); transform-origin: center bottom; }.promenade { width: 36%; }
+  html[data-theme="night"] .detection-scene { background-position: 98% center; background-size: 156% 100%; }
+  html[data-theme="night"] .moon { top: 34px; left: 24%; width: 34px; height: 34px; }
   .stats-wrap, .section { width: calc(100% - 38px); }.stats-strip { padding-inline: 4px; border-radius: 20px; }.stat { padding-inline: 7px; gap: 9px; justify-content: flex-start; }.stat-icon { width: 36px; height: 36px; }.stat-copy small { font-size: 10px; }.stat-copy strong { font-size: 21px; }
   .section-heading h2, .recent-heading h2 { font-size: 23px; }.process-card { padding: 21px 18px; }.recent-heading a { font-size: 12px; }.found-visual { min-height: 145px; height: 145px; }
 
   .found-items-page { width: calc(100% - 36px); padding-top: 52px; }.found-items-hero { padding: 26px 22px; border-radius: 22px; }.found-hero-notes { grid-template-columns: 1fr; }.found-filter-panel { padding: 20px; border-radius: 20px; }.found-filter-form { grid-template-columns: 1fr; }.found-filter-actions { flex-direction: column; }.found-filter-actions .button { width: 100%; }.area-picker-backdrop { padding: 14px; align-items: end; }.area-picker-dialog { max-height: calc(100dvh - 28px); border-radius: 24px; }.area-picker-grid, .area-picker-actions { grid-template-columns: 1fr; }.found-search-card { min-height: 0; padding: 20px; }.found-state-card { align-items: flex-start; }.found-detail-summary, .found-detail-list { padding: 24px; }.found-detail-list div { min-height: 88px; }
 
   .info-page { width: calc(100% - 36px); padding-block: 52px; }.info-hero { margin-bottom: 40px; }.info-hero h1 br { display: none; }.info-steps, .info-steps-flow { grid-template-columns: 1fr; }.info-steps li { min-height: 96px; }.info-notice { margin-top: 48px; }.document-card { border-radius: 20px; }
-  .about-page { padding-top: 0; }.about-hero { min-height: 670px; margin-inline: -18px; margin-bottom: 72px; }.about-hero-copy { padding: 46px 24px; }.about-hero-copy h1 { font-size: 39px; }.about-hero-copy > p:not(.info-eyebrow) { font-size: 15px; }.about-hero-actions { align-items: flex-start; flex-direction: column; gap: 18px; }.about-hero-status { display: grid; grid-template-columns: 1fr; gap: 0; }.about-hero-status span { padding-block: 7px; }.about-intro h2 br { display: none; }.about-intro > p:last-child { font-size: 15px; }.about-page .info-feature-card { min-height: 280px; padding: 30px; }.service-flow-heading { align-items: flex-start; }.flow-next { min-width: 76px; padding-inline: 12px; }.flow-next span { display: none; }.about-page .info-steps-flow { grid-template-columns: 1fr; }.about-page .info-steps-flow li { min-height: 110px; }.about-page .info-notice-accent { grid-template-columns: 1fr; padding: 28px; }.document-hero { min-height: 0; padding: 30px; flex-direction: column; }.document-hero > div > p:last-child { font-size: 15px; }.info-document .document-card section { padding-left: 0; }.info-document .document-card section h2 { padding-top: 48px; }.info-document .document-card section h2::before { left: 0; top: 0; }.info-document .document-card section h2::after { left: 11px; top: 12px; }
+  .about-page { padding-top: 0; }.about-hero { min-height: 620px; margin-inline: -18px; margin-bottom: 72px; }.about-hero > img { object-position: 74% center; }.about-hero-copy { padding: 46px 24px; }.about-hero-copy h1 { font-size: 39px; }.about-hero-copy > p:not(.info-eyebrow) { font-size: 15px; }.about-hero-actions { width: min(100%, 230px); align-items: stretch; flex-direction: column; gap: 10px; }.about-hero-actions .button { width: 100%; justify-content: center; }.about-hero-actions .about-text-link { min-height: 44px; padding-inline: 18px; justify-content: center; border: 1px solid rgba(255,255,255,.24); border-radius: 999px; background: rgba(7,17,37,.22); backdrop-filter: blur(8px); }.about-hero-status { display: grid; grid-template-columns: 1fr; gap: 0; }.about-hero-status span { padding-block: 7px; }.about-intro h2 br { display: none; }.about-intro > p:last-child { font-size: 15px; }.about-page .info-feature-card { min-height: 280px; padding: 30px; }.service-flow-heading { align-items: flex-start; }.flow-next { min-width: 76px; padding-inline: 12px; }.flow-next span { display: none; }.about-page .info-steps-flow { grid-template-columns: 1fr; }.about-page .info-steps-flow li { min-height: 110px; }.about-page .info-notice-accent { grid-template-columns: 1fr; padding: 28px; }.document-hero { min-height: 0; padding: 30px; flex-direction: column; }.document-hero > div > p:last-child { font-size: 15px; }.info-document .document-card section { padding-left: 0; }.info-document .document-card section h2 { padding-top: 48px; }.info-document .document-card section h2::before { left: 0; top: 0; }.info-document .document-card section h2::after { left: 11px; top: 12px; }
   .guide-page { width: calc(100% - 36px); padding-top: 22px; }.guide-hero { min-height: 0; margin-inline: -8px; padding: 34px 22px 24px; gap: 32px; border-radius: 26px; }.guide-hero-copy > p:not(.info-eyebrow) { font-size: 24px; }.guide-hero-copy > span { font-size: 13px; }.guide-hero-visual { min-height: 210px; padding: 28px 12px; gap: 6px; border-radius: 21px; }.guide-visual-step { min-width: 78px; }.guide-visual-step > span { width: 48px; height: 48px; border-radius: 15px; }.guide-visual-step strong { font-size: 11px; }.guide-hero-visual > .icon { width: 14px; }.guide-flow-panel { padding: 14px; border-radius: 22px; }.guide-flow-list { grid-template-columns: 1fr; gap: 10px; }.guide-flow-list li { min-height: 106px; }.guide-flow-detail { grid-template-columns: 1fr; gap: 12px; padding: 18px; }.guide-flow-detail > span { width: 42px; height: 42px; border-radius: 14px; }.guide-page .info-notice { grid-template-columns: 1fr; padding: 26px; }
 
 }

diff --git a/frontend/src/components/admin/ownership-claims/AdminOwnershipClaimsClient.tsx b/frontend/src/components/admin/ownership-claims/AdminOwnershipClaimsClient.tsx
@@ -1,7 +1,7 @@
 "use client";
 
 import Link from "next/link";
-import { useEffect, useMemo, useState } from "react";
+import { useEffect, useMemo, useRef, useState } from "react";
 import type { ReactNode } from "react";
 import { Icon } from "@/components/common/Icon";
 import {
@@ -302,10 +302,11 @@ export function AdminOwnershipClaimsClient() {
   const [error, setError] = useState<string | null>(null);
   const [errorStatus, setErrorStatus] = useState<number | null>(null);
   const [adminMemos, setAdminMemos] = useState<Record<number, string>>({});
-  const [processingClaimId, setProcessingClaimId] = useState<number | null>(null);
+  const [processingClaimIds, setProcessingClaimIds] = useState<Set<number>>(() => new Set());
   const [confirmingAction, setConfirmingAction] = useState<ConfirmingAction>(null);
   const [actionMessages, setActionMessages] = useState<Record<number, string>>({});
   const [actionErrors, setActionErrors] = useState<Record<number, string>>({});
+  const processingClaimIdsRef = useRef<Set<number>>(new Set());
 
   const refreshClaims = async () => {
     try {
@@ -365,8 +366,11 @@ export function AdminOwnershipClaimsClient() {
   };
 
   const updateClaimStatus = async (claimId: number, status: string) => {
-    if (processingClaimId !== null) return;
-    setProcessingClaimId(claimId);
+    if (processingClaimIdsRef.current.has(claimId)) return;
+    const nextProcessingClaimIds = new Set(processingClaimIdsRef.current);
+    nextProcessingClaimIds.add(claimId);
+    processingClaimIdsRef.current = nextProcessingClaimIds;
+    setProcessingClaimIds(nextProcessingClaimIds);
     setActionMessages((current) => ({ ...current, [claimId]: "" }));
     setActionErrors((current) => ({ ...current, [claimId]: "" }));
 
@@ -398,7 +402,10 @@ export function AdminOwnershipClaimsClient() {
         : "요청 상태를 변경하지 못했습니다. 잠시 후 다시 시도해주세요.";
       setActionErrors((current) => ({ ...current, [claimId]: message }));
     } finally {
-      setProcessingClaimId(null);
+      const nextProcessingClaimIds = new Set(processingClaimIdsRef.current);
+      nextProcessingClaimIds.delete(claimId);
+      processingClaimIdsRef.current = nextProcessingClaimIds;
+      setProcessingClaimIds(nextProcessingClaimIds);
     }
   };
 
@@ -481,7 +488,7 @@ export function AdminOwnershipClaimsClient() {
                 <ClaimReviewCard
                   claim={claim}
                   adminMemo={adminMemos[claim.id] ?? claim.admin_memo ?? ""}
-                  processing={processingClaimId === claim.id}
+                  processing={processingClaimIds.has(claim.id)}
                   confirmingAction={confirmingAction}
                   actionMessage={actionMessages[claim.id] || null}
                   actionError={actionErrors[claim.id] || null}

diff --git a/frontend/src/components/lost-reports/LostReportAuthGate.tsx b/frontend/src/components/lost-reports/LostReportAuthGate.tsx
@@ -1,0 +1,77 @@
+"use client";
+
+import { useRouter } from "next/navigation";
+import { useEffect, useState } from "react";
+import type { ReactNode } from "react";
+import { Icon } from "@/components/common/Icon";
+import { AuthApiError, getCurrentUser } from "@/lib/authApi";
+import styles from "./LostReportForm.module.css";
+
+const lostReportPath = "/lost-reports/new";
+const loginPath = `/login?next=${encodeURIComponent(lostReportPath)}`;
+
+export function LostReportAuthGate({ children }: { children: ReactNode }) {
+  const router = useRouter();
+  const [status, setStatus] = useState<"checking" | "ready" | "error">("checking");
+  const [message, setMessage] = useState("");
+
+  const checkAuth = async () => {
+    setStatus("checking");
+    setMessage("");
+    try {
+      await getCurrentUser();
+      setStatus("ready");
+    } catch (caught) {
+      if (caught instanceof AuthApiError && caught.status === 401) {
+        router.replace(loginPath);
+        return;
+      }
+      setMessage("로그인 상태를 확인하지 못했습니다.");
+      setStatus("error");
+    }
+  };
+
+  useEffect(() => {
+    let active = true;
+
+    const checkInitialAuth = async () => {
+      try {
+        await getCurrentUser();
+        if (active) setStatus("ready");
+      } catch (caught) {
+        if (!active) return;
+        if (caught instanceof AuthApiError && caught.status === 401) {
+          router.replace(loginPath);
+          return;
+        }
+        setMessage("로그인 상태를 확인하지 못했습니다.");
+        setStatus("error");
+      }
+    };
+
+    void checkInitialAuth();
+    return () => {
+      active = false;
+    };
+  }, [router]);
+
+  if (status === "ready") return <>{children}</>;
+
+  return (
+    <main className={styles.page}>
+      <section className={styles.formCard} role={status === "error" ? "alert" : "status"} aria-live="polite">
+        <div className={styles.alert}>
+          <Icon name={status === "error" ? "spark" : "scan"} size={22} />
+          <div>
+            <strong>{status === "error" ? message : "로그인 상태를 확인하고 있습니다."}</strong>
+            {status === "error" && (
+              <button className="button button-secondary" type="button" onClick={() => void checkAuth()}>
+                다시 시도
+              </button>
+            )}
+          </div>
+        </div>
+      </section>
+    </main>
+  );
+}

diff --git a/frontend/src/components/auth/AuthShell.tsx b/frontend/src/components/auth/AuthShell.tsx
@@ -31,6 +31,7 @@ const loginScene = {
   night: {
     title: <>밤의 흐름 속에서도<br />놓치지 않는 연결</>,
     detections: [
+      { id: "bag", object: "백팩", confidence: 92, role: "secondary" },
       { id: "footwear", object: "신발", confidence: 91, role: "main" },
       { id: "umbrella", object: "우산", confidence: 86, role: "secondary" },
     ],
@@ -60,6 +61,16 @@ const registerScene = {
     ],
   },
 } as const;
+
+function getSafeNextPath() {
+  const fallbackPath = "/";
+  const nextPath = new URLSearchParams(window.location.search).get("next")?.trim();
+  if (!nextPath || !nextPath.startsWith("/") || nextPath.startsWith("//")) return fallbackPath;
+
+  const url = new URL(nextPath, window.location.origin);
+  if (url.origin !== window.location.origin) return fallbackPath;
+  return `${url.pathname}${url.search}${url.hash}`;
+}
 
 function ConfidenceCount({ target, delay = 470, duration = 950 }: { target: number; delay?: number; duration?: number }) {
   const [value, setValue] = useState(0);
@@ -261,7 +272,7 @@ export function AuthShell({ mode }: { mode: AuthMode }) {
 
       const currentUser = await getCurrentUser();
       setSubmitMessage(`${currentUser.nickname}님, 환영합니다.`);
-      router.replace("/");
+      router.replace(isLogin ? getSafeNextPath() : "/");
       router.refresh();
     } catch (error) {
       const message = error instanceof AuthApiError

diff --git a/frontend/src/app/lost-reports/new/page.tsx b/frontend/src/app/lost-reports/new/page.tsx
@@ -1,4 +1,5 @@
 import { LostReportForm } from "@/components/lost-reports/LostReportForm";
+import { LostReportAuthGate } from "@/components/lost-reports/LostReportAuthGate";
 import { Footer } from "@/components/layout/Footer";
 import { Header } from "@/components/layout/Header";
 
@@ -6,7 +7,9 @@ export default function LostReportNewPage() {
   return (
     <div className="site-shell">
       <Header />
-      <LostReportForm />
+      <LostReportAuthGate>
+        <LostReportForm />
+      </LostReportAuthGate>
       <Footer />
     </div>
   );

diff --git a/frontend/src/components/lost-reports/LostReportForm.tsx b/frontend/src/components/lost-reports/LostReportForm.tsx
@@ -217,7 +217,7 @@ export function LostReportForm() {
                   <Icon name="spark" size={22} />
                   <div>
                     <strong>{submitError}</strong>
-                    {submitErrorStatus === 401 && <Link href="/login">로그인하러 가기</Link>}
+                    {submitErrorStatus === 401 && <Link href="/login?next=%2Flost-reports%2Fnew">로그인하러 가기</Link>}
                   </div>
                 </div>
               )}
